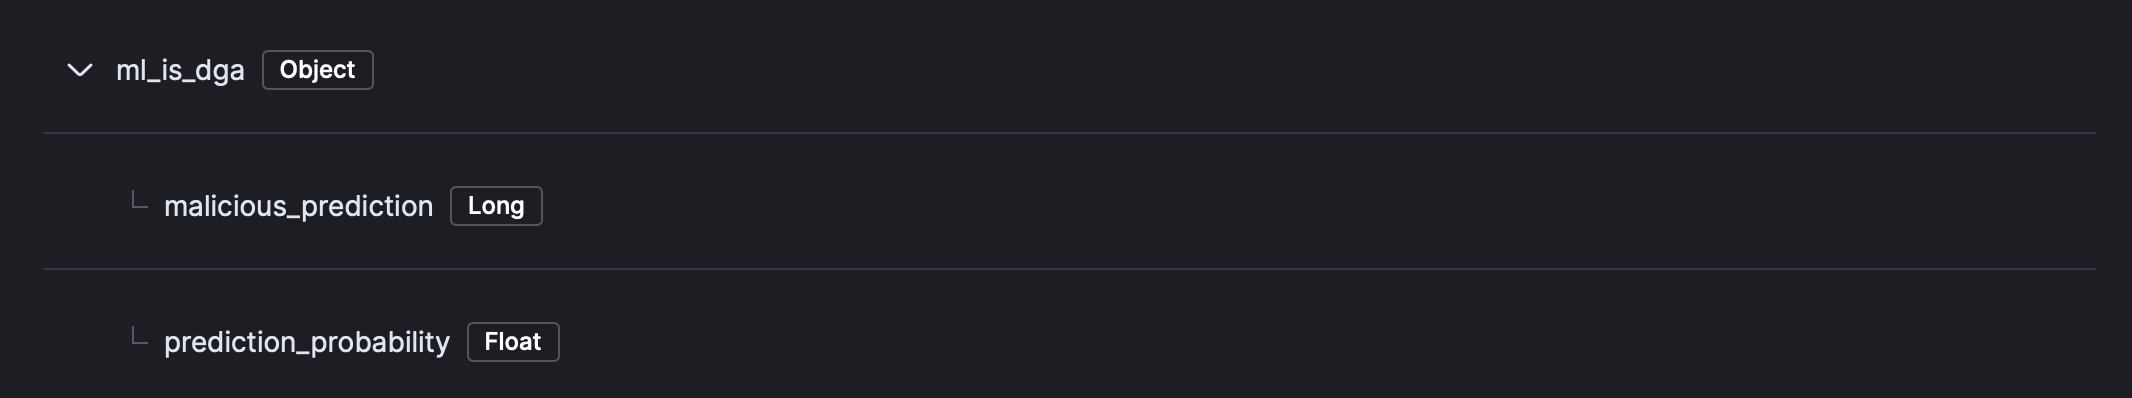
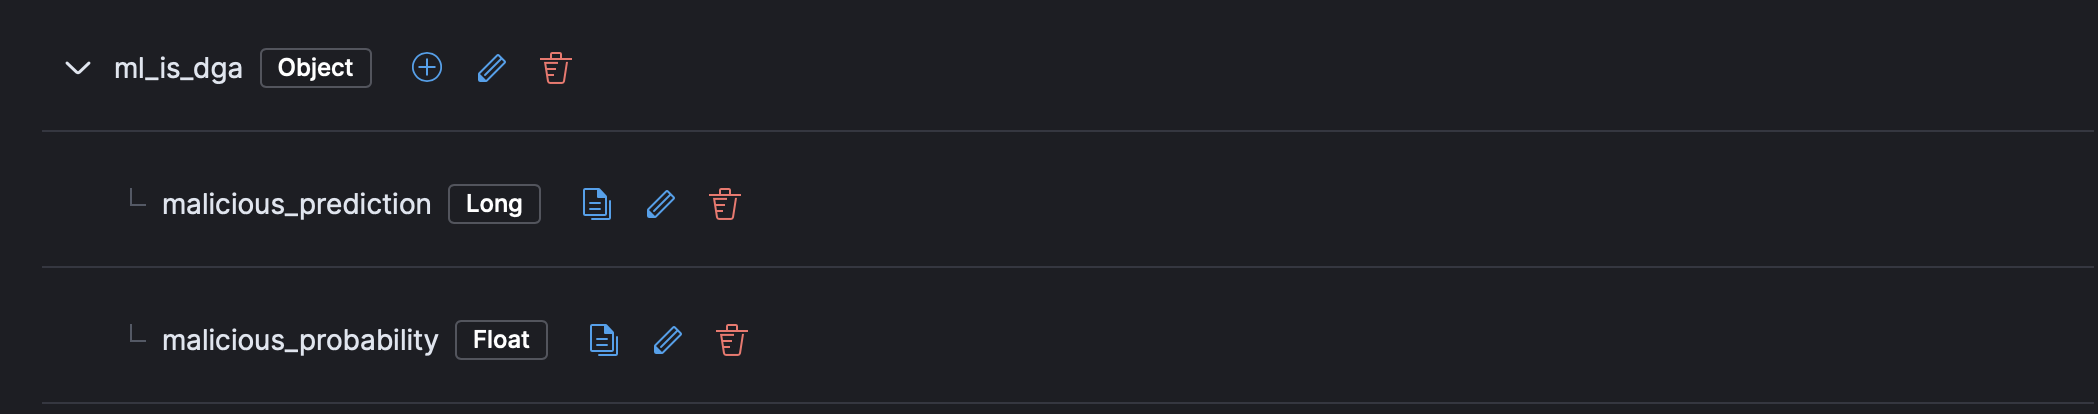
fix field mappings in dga

diff --git a/packages/dga/docs/README.md b/packages/dga/docs/README.md
@@ -53,7 +53,7 @@ For more detailed information refer to the following blogs:
     ![Component Templates](../img/field1.png)
     Finally create two properties under `ml_is_dga`.
     ![Component Templates](../img/field1a.png)
-    The first for `malicious_prediction` of type `Long` and then for `prediction_probability` or type `Float`.
+    The first for `malicious_prediction` of type `Long` and then for `malicious_probability` or type `Float`.
     ![Component Templates](../img/field2.png)
     Your component mappings should look like the following:
     ![Component Templates](../img/fields-complete.png)
